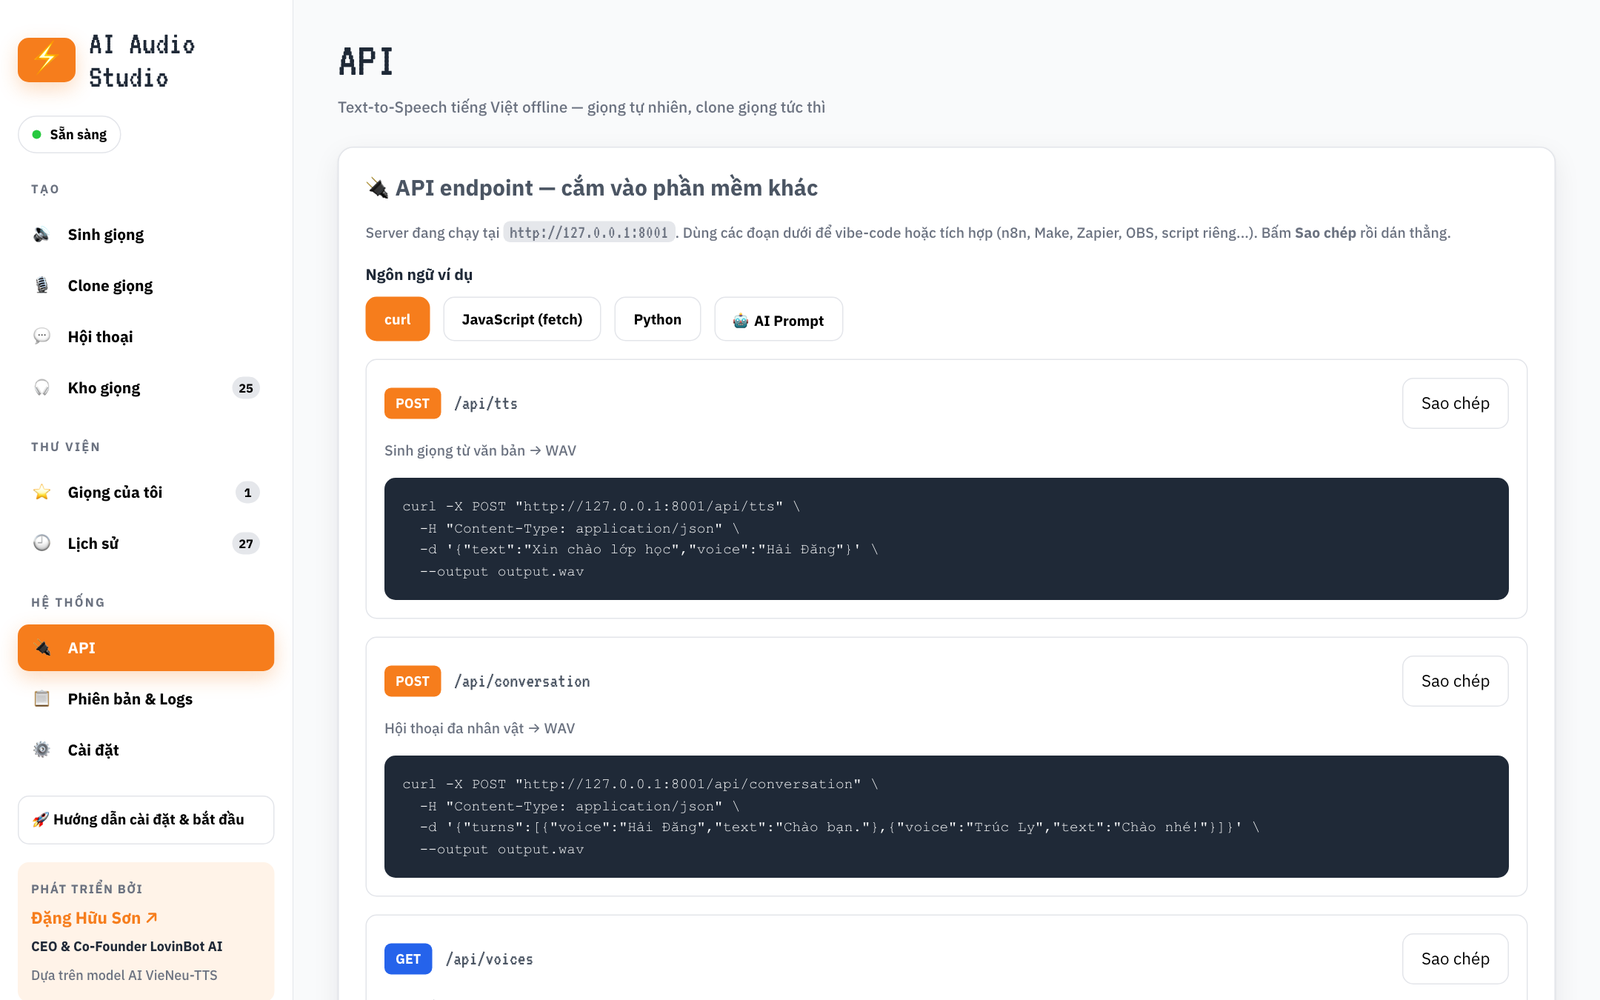
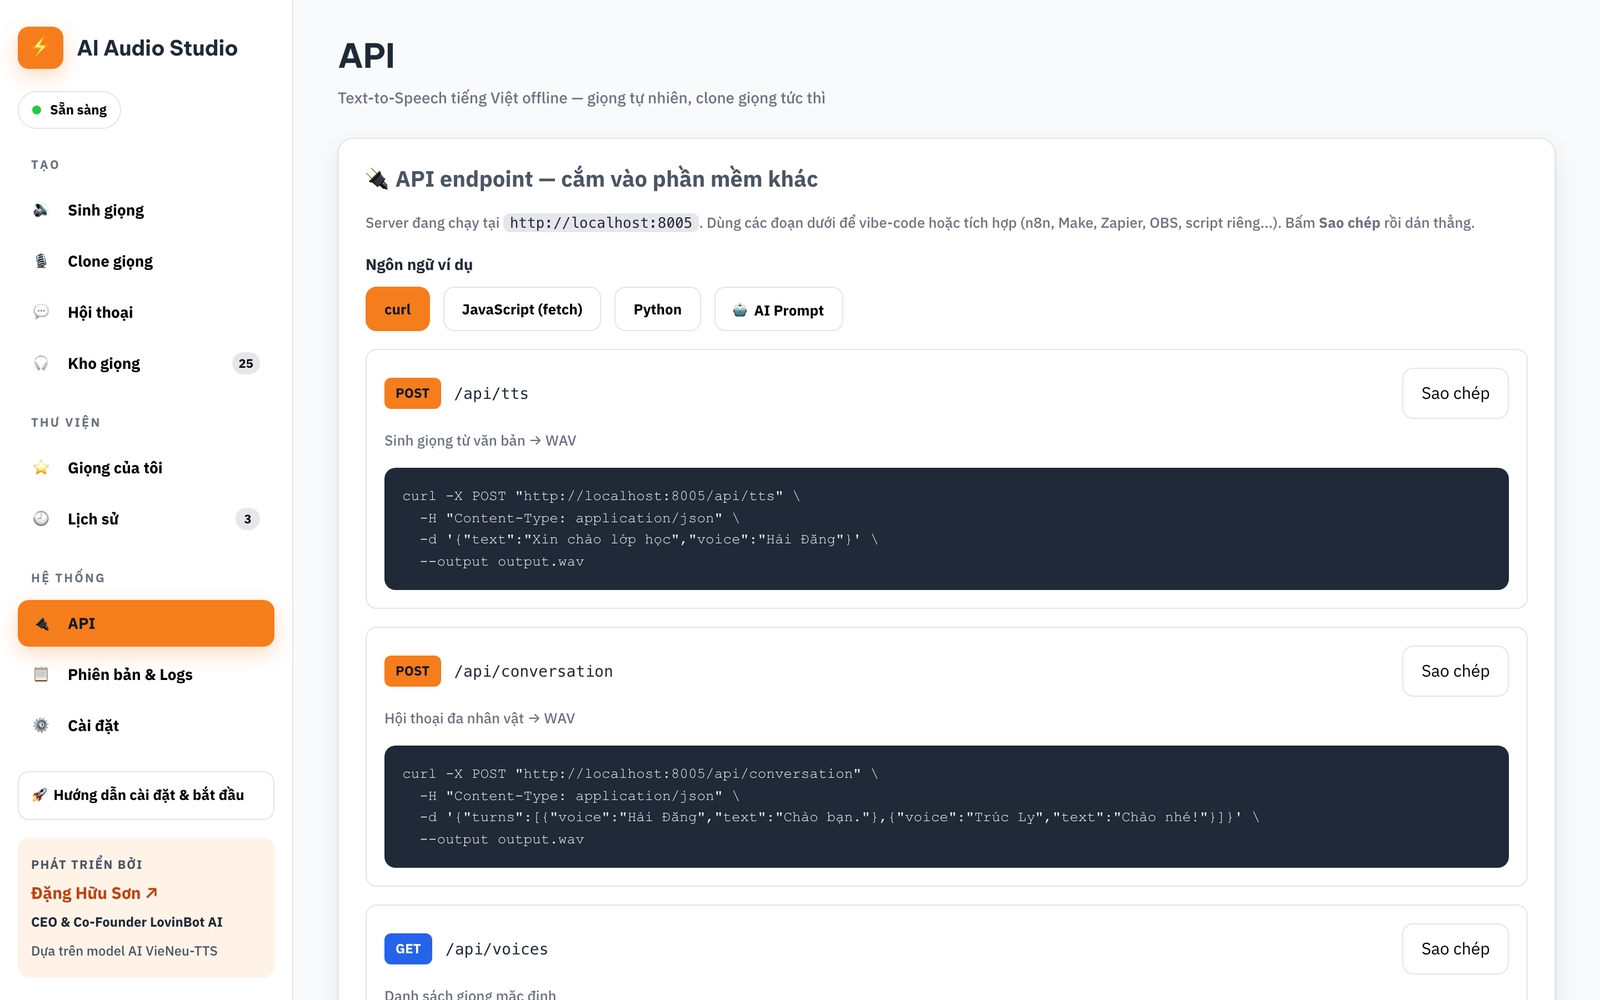
AI Audio Studio 1.7.1: sửa giao diện theo bảng soi (skill ui-ux), bỏ font pixel
- Bỏ VT323: tiêu đề dùng Be Vietnam Pro, code dùng --font-mono
- 1B: chữ --c-on-primary (#111827) trên nền cam (6,65:1 thay 2,67:1)
- Chữ cam trên nền sáng → --c-primary-ink #C2410C; chữ code/phụ đậm hơn
- ≤1500px: Giọng đọc và Cảm xúc thành hai hàng (hết bóp ô chọn giọng)
- ≤900px: khung trang minmax(0,1fr), đường dẫn API xuống dòng (hết tràn ngang)
- Link nhỏ cao tối thiểu 24px; --c-danger đỏ #DC2626 tách khỏi màu cam
- Hàng lọc Kho giọng một dòng, cuộn ngang khi thiếu chỗ
- Đo lại bằng probe: 120 mã → 0 (trừ chip chọn sáng ở dark, có chủ đích)
- Ảnh README/Pages chụp lại từ bản app sạch; news.json latest_version 1.7.1

diff --git a/webapp/static/css/app.css b/webapp/static/css/app.css
@@ -15,16 +15,16 @@
 
 .brand { display: flex; align-items: center; gap: var(--s-3); }
 .brand .logo {
-  font-family: var(--font-display); font-size: 32px; line-height: 1;
-  background: var(--c-primary); color: #fff;
+  font-size: 22px; line-height: 1;
+  background: var(--c-primary); color: var(--c-on-primary);
   border-radius: var(--radius); box-shadow: var(--shadow-hover);
-  padding: 4px 10px;
+  padding: 8px 9px;
 }
-.brand .title { font-family: var(--font-display); font-size: 30px; line-height: 1; color: var(--c-charcoal); display: block; }
+.brand .title { font-family: var(--font-display); font-size: 19px; font-weight: 700; line-height: 1.2; letter-spacing: -0.01em; color: var(--c-charcoal); display: block; }
 .brand .edition { display: block; font-family: var(--font-body); font-size: 11px; font-weight: 700; color: var(--c-primary); letter-spacing: 1px; }
 
 .page-head { margin-bottom: var(--s-6); }
-.page-title { font-family: var(--font-display); font-weight: 400; font-size: 44px; line-height: 1; color: var(--c-charcoal); }
+.page-title { font-family: var(--font-display); font-weight: 700; font-size: 30px; line-height: 1.2; letter-spacing: -0.01em; color: var(--c-charcoal); }
 .tagline { font-size: 14px; color: var(--c-gray); margin-top: var(--s-2); }
 
 /* ── Status pill ─────────────────────────────────────── */
@@ -59,12 +59,12 @@
 .nav-item .ico { width: 20px; text-align: center; }
 .nav-item:hover { background: var(--c-hover); }
 .nav-item:focus-visible { outline: none; box-shadow: 0 0 0 2px var(--c-primary); }
-.nav-item.active { background: var(--c-primary); color: #fff; box-shadow: var(--shadow-hover); }
+.nav-item.active { background: var(--c-primary); color: var(--c-on-primary); box-shadow: var(--shadow-hover); }
 .nav-item .count {
   margin-left: auto; min-width: 22px; padding: 0 6px; text-align: center;
   font-size: 11px; line-height: 20px; border-radius: 999px; background: var(--c-light-gray);
 }
-.nav-item.active .count { background: rgba(255,255,255,.25); }
+.nav-item.active .count { background: rgba(17,24,39,.12); color: var(--c-on-primary); }
 .nav-item .count:empty { display: none; }
 
 .sidebar-foot { margin-top: auto; display: flex; flex-direction: column; gap: var(--s-1); }
@@ -95,7 +95,7 @@
   .sidebar-foot { grid-column: 1 / -1; margin-top: 0; }
   .sidebar-foot .nav-label { display: none; }
   .main { padding: var(--s-6) var(--s-4) var(--s-16); }
-  .page-title { font-size: 36px; }
+  .page-title { font-size: 26px; }
 }
 
 /* ── Sub-tabs (chỉ còn dùng ở tab API) ───────────────── */
@@ -106,7 +106,7 @@
   border: var(--bw-thick) solid var(--c-border); border-radius: var(--radius);
   padding: var(--s-3) var(--s-5); min-height: 48px;
 }
-.tab.active { background: var(--c-primary); border-color: var(--c-primary); color: #fff; }
+.tab.active { background: var(--c-primary); border-color: var(--c-primary); color: var(--c-on-primary); }
 
 .panel { display: none; }
 .panel.active { display: block; }
@@ -158,8 +158,8 @@
 
 /* ── Inline code ─────────────────────────────────────── */
 code {
-  font-family: "VT323", "Courier New", monospace;
-  font-size: 17px; background: var(--c-light-gray);
+  font-family: var(--font-mono);
+  font-size: 13px; color: var(--c-charcoal); background: var(--c-light-gray);
   padding: 1px 6px; border-radius: 6px;
 }
 
@@ -169,10 +169,10 @@ code {
 /* ── API endpoints + code blocks ─────────────────────── */
 .endpoint { border: var(--bw-thin) solid var(--c-border); border-radius: var(--radius); margin-bottom: var(--s-4); padding: var(--s-4); background: var(--c-surface); }
 .endpoint-head { display: flex; align-items: center; gap: var(--s-3); flex-wrap: wrap; }
-.endpoint-head code { background: transparent; border: none; font-size: 18px; padding: 0; }
+.endpoint-head code { background: transparent; border: none; font-size: 14px; padding: 0; min-width: 0; word-break: break-all; }
 .copy-btn { margin-left: auto; }
 
-.method { font-family: var(--font-body); font-size: 12px; font-weight: 700; color: #fff; padding: 2px 10px; border-radius: 6px; }
+.method { font-family: var(--font-body); font-size: 12px; font-weight: 700; color: var(--c-on-primary); padding: 2px 10px; border-radius: 6px; }
 .method-get { background: var(--c-blue); }
 .method-post { background: var(--c-primary); }
 
@@ -185,7 +185,7 @@ code {
 
 .api-table { margin-top: var(--s-3); }
 .api-row { display: grid; grid-template-columns: 64px 220px 1fr; gap: var(--s-3); align-items: center; padding: var(--s-2) 0; border-bottom: var(--bw-thin) solid var(--c-border-soft); font-size: 14px; }
-.api-row code { background: transparent; border: none; padding: 0; font-size: 16px; }
+.api-row code { background: transparent; border: none; padding: 0; font-size: 13px; }
 @media (max-width: 640px) { .api-row { grid-template-columns: 56px 1fr; } .api-row span:last-child { grid-column: 1 / -1; } }
 
 /* ── Changelog ───────────────────────────────────────── */
@@ -208,7 +208,7 @@ code {
 .btn-sm { font-size: 14px; line-height: 20px; padding: var(--s-1) var(--s-3); min-height: 36px; }
 .btn-danger:hover { background: var(--c-danger); color: #fff; }
 .meta { font-size: 13px; color: var(--c-gray); }
-.badge-orange { background: var(--c-primary); }
+.badge-orange { background: var(--c-primary); color: var(--c-on-primary); }
 .badge-gray { background: var(--c-gray); }
 
 .run {
@@ -264,7 +264,8 @@ select optgroup { font-weight: 700; }
   border: var(--bw-thin) dashed var(--c-border-strong); border-radius: var(--radius);
 }
 .side .save-voice { flex-direction: column; align-items: stretch; }
-.link-btn { background: none; border: 0; padding: 0; cursor: pointer; font: 700 12px var(--font-body); color: var(--c-blue); }
+.link-btn { background: none; border: 0; padding: 4px 0; min-height: 24px; cursor: pointer; font: 700 12px var(--font-body); color: var(--c-blue); }
+input[type="file"] { min-height: 32px; font: inherit; font-size: 14px; }
 .link-btn:hover { text-decoration: underline; }
 .recent-item + .recent-item { margin-top: var(--s-3); padding-top: var(--s-3); border-top: var(--bw-thin) solid var(--c-border-soft); }
 .recent-head { display: flex; justify-content: space-between; gap: var(--s-2); font-size: 13px; color: var(--c-charcoal); }
@@ -272,7 +273,7 @@ select optgroup { font-weight: 700; }
   font-size: 13px; line-height: 19px; color: var(--c-text); margin: 2px 0 var(--s-2); cursor: pointer;
   display: -webkit-box; -webkit-line-clamp: 2; -webkit-box-orient: vertical; overflow: hidden;
 }
-.recent-text:hover { color: var(--c-primary); }
+.recent-text:hover { color: var(--c-primary-ink); }
 .recent audio { width: 100%; height: 34px; }
 .recent-empty { font-size: 13px; color: var(--c-gray); }
 .tips ul { margin: 0; padding-left: var(--s-5); font-size: 13px; line-height: 20px; color: var(--c-text); }
@@ -289,9 +290,9 @@ select optgroup { font-weight: 700; }
   font-weight: 500; color: var(--c-text);
 }
 .dev-credit:hover { text-decoration: none; box-shadow: var(--shadow-deep); }
-.dev-by { font-size: 11px; letter-spacing: 1px; text-transform: uppercase; color: var(--c-gray); font-weight: 700; }
-.dev-who { font-size: 15px; font-weight: 700; color: var(--c-primary); }
-.dev-base { font-size: 12px; color: var(--c-gray); }
+.dev-by { font-size: 11px; letter-spacing: 1px; text-transform: uppercase; color: var(--c-text); font-weight: 700; }
+.dev-who { font-size: 15px; font-weight: 700; color: var(--c-primary-ink); }
+.dev-base { font-size: 12px; color: var(--c-text); }
 .dev-card .btn { margin-top: var(--s-2); }
 
 /* ── Cài đặt: lưới 2 cột ─────────────────────────────── */
@@ -307,7 +308,7 @@ select optgroup { font-weight: 700; }
   font: 700 13px/18px var(--font-body); color: var(--c-ink); text-align: left; cursor: pointer;
   background: var(--c-surface); border: var(--bw-thin) solid var(--c-border); border-radius: var(--radius);
 }
-.onb-open:hover { border-color: var(--c-primary); color: var(--c-primary); }
+.onb-open:hover { border-color: var(--c-primary); color: var(--c-primary-ink); }
 body.onb-lock { overflow: hidden; }
 .onb-backdrop {
   position: fixed; inset: 0; z-index: 40; display: grid; place-items: center; padding: var(--s-4);
@@ -331,10 +332,10 @@ body.onb-lock { overflow: hidden; }
 .onb-steps li + li::before { content: ""; width: 18px; height: 2px; background: var(--c-border); margin-right: 2px; }
 .onb-steps li span {
   display: grid; place-items: center; width: 22px; height: 22px; border-radius: 50%;
-  font-size: 12px; background: var(--c-light-gray); color: var(--c-gray);
+  font-size: 12px; background: var(--c-light-gray); color: var(--c-text);
 }
 .onb-steps li.current { color: var(--c-charcoal); }
-.onb-steps li.current span { background: var(--c-primary); color: #fff; }
+.onb-steps li.current span { background: var(--c-primary); color: var(--c-on-primary); }
 .onb-steps li.done span { background: var(--c-success); color: #fff; }
 .onb-body { padding: var(--s-6); overflow-y: auto; }
 .onb-h { font-size: 22px; line-height: 30px; margin-bottom: var(--s-2); }
@@ -391,7 +392,7 @@ body.onb-lock { overflow: hidden; }
 
 /* ── Chức danh người phát triển ──────────────────────── */
 .dev-title { font-size: 12px; font-weight: 700; color: var(--c-charcoal); }
-.dev-title-lg { font-size: 14px; font-weight: 700; color: var(--c-primary); margin-bottom: 2px; }
+.dev-title-lg { font-size: 14px; font-weight: 700; color: var(--c-primary-ink); margin-bottom: 2px; }
 
 /* ── Bộ đếm ký tự dưới ô nhập ────────────────────────── */
 .text-meta { display: flex; flex-wrap: wrap; gap: 4px var(--s-3); margin-top: 6px; font-size: 12px; line-height: 18px; color: var(--c-gray); }
@@ -399,10 +400,9 @@ body.onb-lock { overflow: hidden; }
 .text-meta .count-msg:empty { display: none; }
 .text-meta.soft .count-msg { color: #B45309; }
 .text-meta.heavy .count-num, .text-meta.heavy .count-msg { color: var(--c-primary-deep); }
-.text-meta.over .count-num, .text-meta.over .count-msg { color: #DC2626; }
+.text-meta.over .count-num, .text-meta.over .count-msg { color: var(--c-danger); }
 .text-meta.over { padding: 6px 10px; border-radius: 8px; background: rgba(220,38,38,.08); }
 [data-theme="dark"] .text-meta.soft .count-msg { color: #FBBF24; }
-[data-theme="dark"] .text-meta.over .count-num, [data-theme="dark"] .text-meta.over .count-msg { color: #F87171; }
 #conv-turns + .text-meta { margin: 0 0 var(--s-2); }
 
 /* ── Giọng cảm xúc ───────────────────────────────────── */
@@ -415,7 +415,7 @@ body.onb-lock { overflow: hidden; }
   background: var(--c-surface); border: var(--bw-thin) solid var(--c-border); border-radius: 999px; padding: 6px 12px;
 }
 .emo-chip:hover { border-color: var(--c-primary); }
-.emo-chip.active { background: var(--c-primary); border-color: var(--c-primary); color: #fff; }
+.emo-chip.active { background: var(--c-primary); border-color: var(--c-primary); color: var(--c-on-primary); }
 .emo-why { margin-top: var(--s-3); font-size: 13px; line-height: 20px; }
 .emo-why summary { cursor: pointer; font-weight: 700; color: var(--c-blue); }
 .emo-why p { margin: var(--s-2) 0 0; color: var(--c-text); }
@@ -424,8 +424,10 @@ body.onb-lock { overflow: hidden; }
 .voice-pick { display: flex; gap: var(--s-2); }
 .voice-pick select { flex: 1; min-width: 0; }
 .preview-btn { white-space: nowrap; flex: none; }
-.preview-btn.playing, .gv-play.playing { background: var(--c-primary); border-color: var(--c-primary); color: #fff; }
-.gallery-filters { display: flex; flex-wrap: wrap; gap: var(--s-2); }
+.preview-btn.playing, .gv-play.playing { background: var(--c-primary); border-color: var(--c-primary); color: var(--c-on-primary); }
+.gallery-filters { display: flex; flex-wrap: nowrap; gap: var(--s-2); overflow-x: auto; max-width: 100%; scrollbar-width: none; }
+.gallery-filters::-webkit-scrollbar { display: none; }
+.gallery-filters .chip { flex: none; padding: 6px 12px; }
 .chip {
   font: 700 13px var(--font-body); color: var(--c-ink); cursor: pointer;
   background: var(--c-surface); border: var(--bw-thin) solid var(--c-border); border-radius: 999px; padding: 6px 14px;
@@ -446,7 +448,7 @@ body.onb-lock { overflow: hidden; }
 .gv-top { display: flex; gap: var(--s-3); align-items: center; }
 .gv-play {
   flex: none; width: 44px; height: 44px; border-radius: 50%; cursor: pointer;
-  font-size: 14px; color: var(--c-primary); background: var(--c-hover); border: var(--bw-thin) solid transparent;
+  font-size: 14px; color: var(--c-primary-ink); background: var(--c-hover); border: var(--bw-thin) solid transparent;
 }
 .gv-play:hover { border-color: var(--c-primary); }
 .gv-info { min-width: 0; }
@@ -503,3 +505,13 @@ body.onb-lock { overflow: hidden; }
 .news-side-card .news-text { margin: 4px 0 0; font-size: 13px; line-height: 18px; color: var(--c-text); }
 .news-cta { display: inline-block; margin-top: var(--s-2); font-size: 13px; color: var(--c-blue); }
 @media (max-width: 900px) { #news-side { display: none; } }
+
+/* ── Khung hẹp: Giọng đọc và Cảm xúc thành hai hàng (tránh bóp ô chọn giọng ở 1280–1500px) ── */
+@media (max-width: 1500px) { .workspace .row.two { grid-template-columns: 1fr; } }
+/* ── Màn hẹp: khung trang co theo màn, không để nội dung dài kéo rộng trang ── */
+@media (max-width: 900px) { .app { grid-template-columns: minmax(0, 1fr); } .sidebar { min-width: 0; } }
+/* Nhãn GET nền xanh: chữ trắng ở nền sáng (5,17:1), chữ đen ở nền tối */
+.method-get { color: #fff; }
+[data-theme="dark"] .method-get { color: var(--c-on-primary); }
+/* Màn rất hẹp: ba nút cảm xúc gọn lại để nằm cùng một hàng */
+@media (max-width: 420px) { .emotion-tags { gap: 6px; } .emotion-tags .btn { padding: 6px 8px; font-size: 13px; } }

diff --git a/webapp/static/css/coachio-theme.css b/webapp/static/css/coachio-theme.css
@@ -9,6 +9,8 @@
   --c-primary-deep: #F26522;     /* cam-đỏ — premium */
   --c-blue: #2563EB;             /* xanh — phụ */
   --c-blue-light: #3B82F6;
+  --c-on-primary: #111827;       /* chữ trên nền cam: đen (6,65:1) — trắng chỉ 2,67:1 */
+  --c-primary-ink: #C2410C;      /* chữ cam trên nền sáng (5,18:1) */
 
   /* ── Text / neutrals ─────────────────────────────────── */
   --c-text: #4B5563;             /* body & heading */
@@ -33,10 +35,11 @@
   --c-success: #16A34A;
   --c-success-bright: #27C93F;
   --c-warning: #FACC15;
-  --c-danger: #F26522;
+  --c-danger: #DC2626;           /* đỏ lỗi — tách khỏi màu cam chính */
 
   /* ── Typography ──────────────────────────────────────── */
-  --font-display: "VT323", "Courier New", monospace;
+  --font-display: "Be Vietnam Pro", "IBM Plex Sans", -apple-system, BlinkMacSystemFont, "Segoe UI", sans-serif;
+  --font-mono: ui-monospace, "SF Mono", Menlo, Consolas, "Liberation Mono", monospace;
   --font-body: "IBM Plex Sans", -apple-system, BlinkMacSystemFont,
                "Segoe UI", "Be Vietnam Pro", sans-serif;
 
@@ -80,6 +83,8 @@
   --c-shadow: rgba(0, 0, 0, .35);
   --c-hover: #2A2017;
   --c-blue: #60A5FA;
+  --c-primary-ink: #FB923C;
+  --c-danger: #F87171;
   --c-blue-light: #93C5FD;
 }
 
@@ -123,7 +128,7 @@ a:hover { text-decoration: underline; text-decoration-color: var(--c-primary); }
 .btn:active { box-shadow: var(--shadow-deepest); transform: none; }
 .btn:disabled { opacity: .5; cursor: not-allowed; box-shadow: none; transform: none; }
 
-.btn-primary { background: var(--c-primary); border-color: var(--c-primary); color: #fff; font-weight: 700; font-size: 16px; }
+.btn-primary { background: var(--c-primary); border-color: var(--c-primary); color: var(--c-on-primary); font-weight: 700; font-size: 16px; }
 .btn-primary:hover { background: var(--c-primary-deep); border-color: var(--c-primary-deep); box-shadow: var(--shadow-hover); }
 .btn-secondary { background: var(--c-surface); color: var(--c-ink); font-weight: 700; }
 .btn-ghost {

diff --git a/docs/index.html b/docs/index.html
@@ -9,7 +9,7 @@
 <meta property="og:description" content="Xem video, nghe thử 25 giọng và tải miễn phí cho macOS, Windows, Linux.">
 <meta property="og:image" content="https://raw.githubusercontent.com/sonlovinbot/vieneu-audio-studio/main/assets/readme/banner.png">
 <link rel="preconnect" href="https://fonts.googleapis.com"><link rel="preconnect" href="https://fonts.gstatic.com" crossorigin>
-<link href="https://fonts.googleapis.com/css2?family=Be+Vietnam+Pro:wght@400;500;700&family=VT323&display=swap" rel="stylesheet">
+<link href="https://fonts.googleapis.com/css2?family=Be+Vietnam+Pro:wght@400;500;700&display=swap" rel="stylesheet">
 <style>
 :root {
   --bg: #F7F7F8; --surface: #FFFFFF; --border: #E6E7EA; --text: #1F2937; --muted: #5B6472;
@@ -26,8 +26,8 @@ code { font: 13px/1.5 ui-monospace, Menlo, monospace; background: var(--code-inl
 .wrap { max-width: 1080px; margin: 0 auto; padding: 0 16px; }
 nav.top { display: flex; align-items: center; justify-content: space-between; gap: 12px; padding: 24px 0 0; flex-wrap: wrap; }
 .brandrow { display: flex; align-items: center; gap: 12px; text-decoration: none; color: var(--text); }
-.logo { width: 44px; height: 44px; border-radius: 12px; background: var(--brand); display: grid; place-items: center; font-size: 22px; }
-.brand { font: 34px/1 "VT323", monospace; }
+.logo { width: 40px; height: 40px; border-radius: 10px; background: var(--brand); display: grid; place-items: center; font-size: 20px; }
+.brand { font: 700 22px/1.2 "Be Vietnam Pro", sans-serif; letter-spacing: -0.01em; }
 .navlinks { display: flex; gap: 16px; flex-wrap: wrap; font-size: 14px; }
 .navlinks a { color: var(--muted); font-weight: 500; text-decoration: none; }
 .navlinks a:hover { color: var(--brand-ink); }

diff --git a/webapp/static/index.html b/webapp/static/index.html
@@ -6,7 +6,7 @@
   <title>AI Audio Studio</title>
   <link rel="preconnect" href="https://fonts.googleapis.com" />
   <link rel="preconnect" href="https://fonts.gstatic.com" crossorigin />
-  <link href="https://fonts.googleapis.com/css2?family=VT323&family=IBM+Plex+Sans:wght@400;500;700&family=Be+Vietnam+Pro:wght@400;500;700&display=swap" rel="stylesheet" />
+  <link href="https://fonts.googleapis.com/css2?family=IBM+Plex+Sans:wght@400;500;700&family=Be+Vietnam+Pro:wght@400;500;700&display=swap" rel="stylesheet" />
   <script>
     // Áp theme trước khi vẽ trang để không bị "chớp sáng" ở dark mode.
     (function () {
@@ -18,8 +18,8 @@
       document.documentElement.setAttribute("data-theme", t);
     })();
   </script>
-  <link rel="stylesheet" href="/css/coachio-theme.css?v=27" />
-  <link rel="stylesheet" href="/css/app.css?v=27" />
+  <link rel="stylesheet" href="/css/coachio-theme.css?v=29" />
+  <link rel="stylesheet" href="/css/app.css?v=29" />
 </head>
 <body>
   <div class="app">
@@ -428,8 +428,8 @@
     </div>
   </div>
   <div class="toast" id="toast"></div>
-  <script src="/js/app.js?v=27"></script>
-  <script src="/js/onboarding.js?v=27"></script>
-  <script src="/js/news.js?v=27"></script>
+  <script src="/js/app.js?v=29"></script>
+  <script src="/js/onboarding.js?v=29"></script>
+  <script src="/js/news.js?v=29"></script>
 </body>
 </html>

diff --git a/scripts/build_pages.py b/scripts/build_pages.py
@@ -122,7 +122,7 @@ page = f'''<!doctype html>
 <meta property="og:description" content="Xem video, nghe thử 25 giọng và tải miễn phí cho macOS, Windows, Linux.">
 <meta property="og:image" content="{RAW}/assets/readme/banner.png">
 <link rel="preconnect" href="https://fonts.googleapis.com"><link rel="preconnect" href="https://fonts.gstatic.com" crossorigin>
-<link href="https://fonts.googleapis.com/css2?family=Be+Vietnam+Pro:wght@400;500;700&family=VT323&display=swap" rel="stylesheet">
+<link href="https://fonts.googleapis.com/css2?family=Be+Vietnam+Pro:wght@400;500;700&display=swap" rel="stylesheet">
 <style>
 :root {{
   --bg: #F7F7F8; --surface: #FFFFFF; --border: #E6E7EA; --text: #1F2937; --muted: #5B6472;
@@ -139,8 +139,8 @@ code {{ font: 13px/1.5 ui-monospace, Menlo, monospace; background: var(--code-in
 .wrap {{ max-width: 1080px; margin: 0 auto; padding: 0 16px; }}
 nav.top {{ display: flex; align-items: center; justify-content: space-between; gap: 12px; padding: 24px 0 0; flex-wrap: wrap; }}
 .brandrow {{ display: flex; align-items: center; gap: 12px; text-decoration: none; color: var(--text); }}
-.logo {{ width: 44px; height: 44px; border-radius: 12px; background: var(--brand); display: grid; place-items: center; font-size: 22px; }}
-.brand {{ font: 34px/1 "VT323", monospace; }}
+.logo {{ width: 40px; height: 40px; border-radius: 10px; background: var(--brand); display: grid; place-items: center; font-size: 20px; }}
+.brand {{ font: 700 22px/1.2 "Be Vietnam Pro", sans-serif; letter-spacing: -0.01em; }}
 .navlinks {{ display: flex; gap: 16px; flex-wrap: wrap; font-size: 14px; }}
 .navlinks a {{ color: var(--muted); font-weight: 500; text-decoration: none; }}
 .navlinks a:hover {{ color: var(--brand-ink); }}
